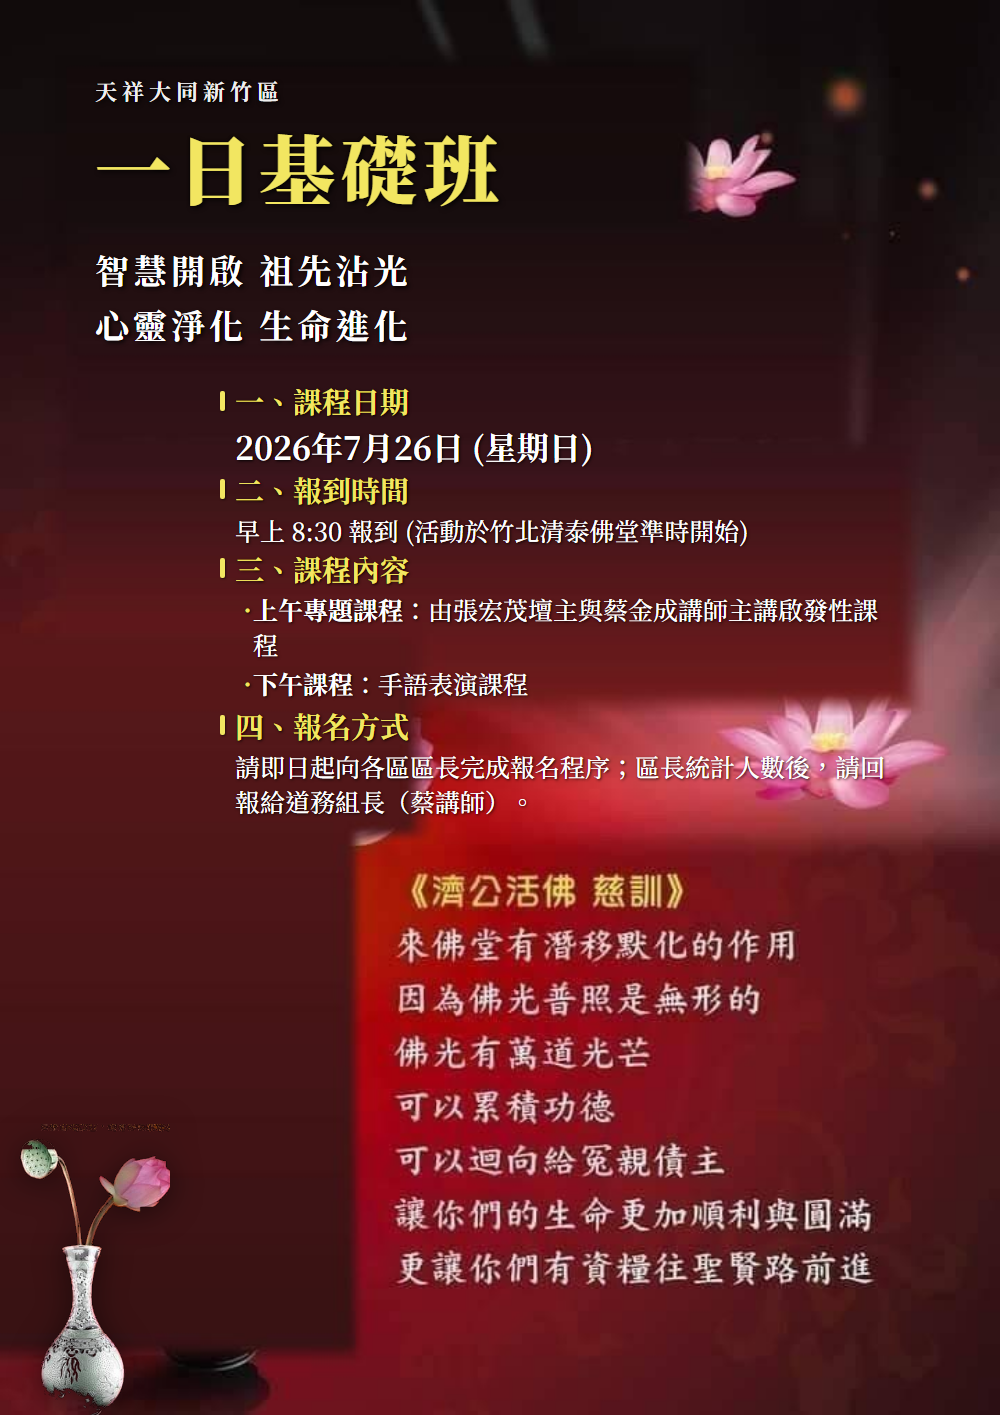
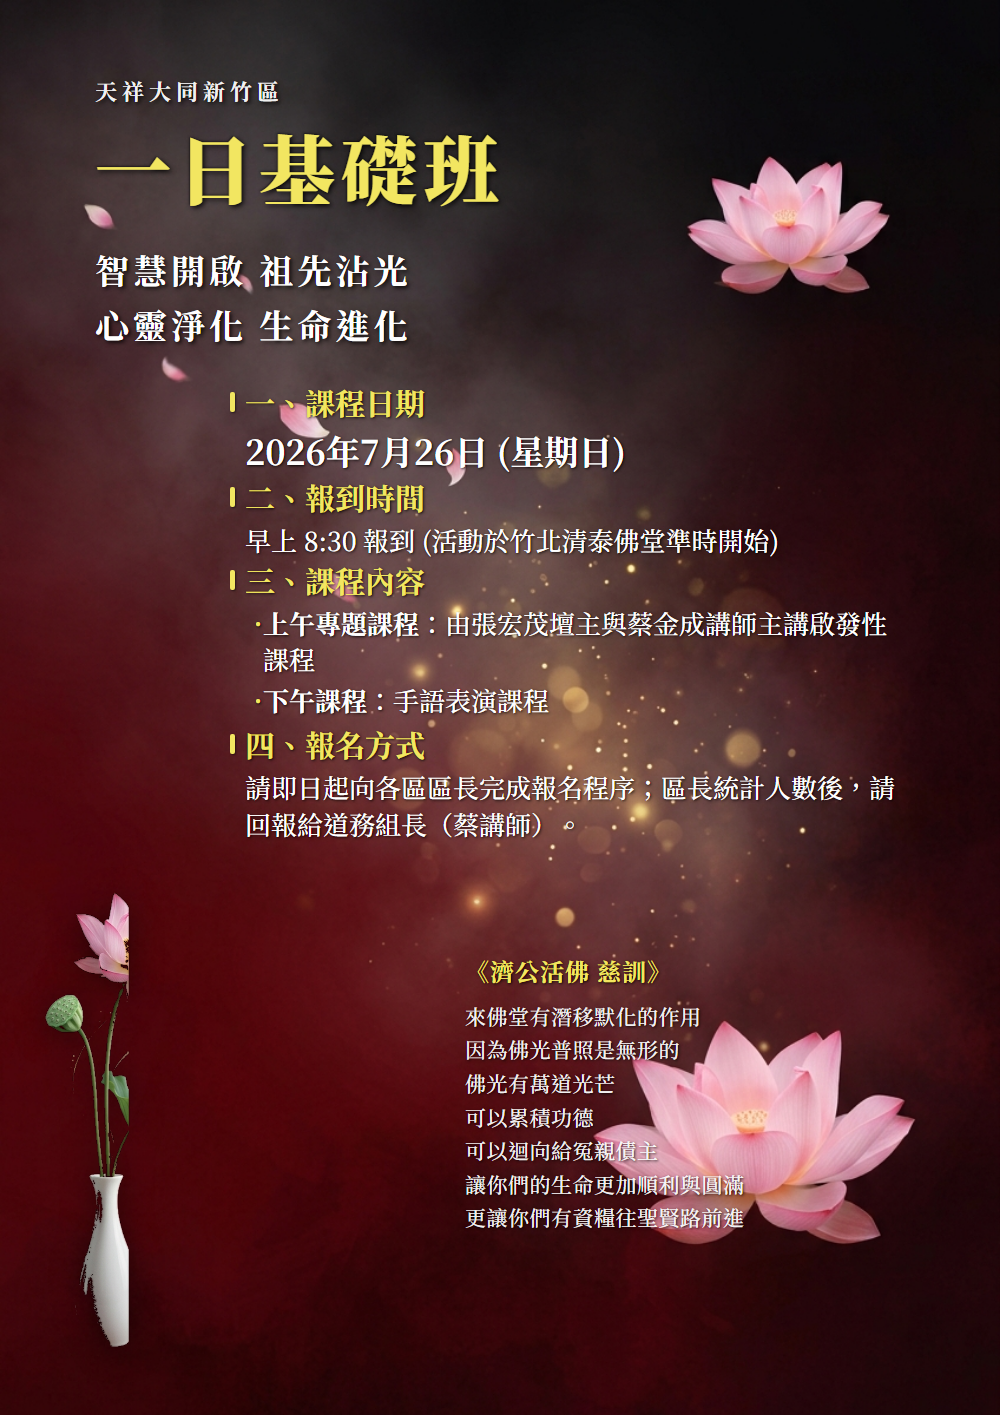
fix(course-poster): rebuild poster_new using clean AI background, shrunk overlay vase, and enlarged course info

diff --git a/public/course poster/index_new.html b/public/course poster/index_new.html
@@ -14,7 +14,7 @@
         
         body {
             font-family: 'Noto Serif TC', 'Microsoft JhengHei', serif;
-            background-color: #120909;
+            background-color: #0b0505;
             display: flex;
             justify-content: center;
             align-items: center;
@@ -24,14 +24,14 @@
         .poster {
             width: 1000px;
             height: 1415px;
-            background: url('S__23208083_patched.jpg') no-repeat center center;
+            background: url('zen_poster_bg_no_vase.jpg') no-repeat center center;
             background-size: cover;
             position: relative;
             overflow: hidden;
             box-shadow: 0 10px 40px rgba(0,0,0,0.6);
         }
         
-        /* 1. Top Title (Shrunk) */
+        /* 1. Top Title */
         .title-container {
             position: absolute;
             top: 75px;
@@ -59,7 +59,7 @@
             text-shadow: 2px 2px 5px rgba(0, 0, 0, 0.9), -1px -1px 2px rgba(0, 0, 0, 0.5);
         }
         
-        /* 2. Wisdom Text (Shrunk, overlayed in HTML) */
+        /* 2. Wisdom Text */
         .wisdom-container {
             position: absolute;
             top: 245px;
@@ -78,16 +78,17 @@
             text-shadow: 2px 2px 4px rgba(0, 0, 0, 0.9);
         }
         
-        /* 3. Middle Course Info (Enlarged and shifted left to use freed space) */
+        /* 3. Middle Course Info (Shifted to the left & Enlarged because vase is shrunk by half) */
         .course-info-container {
             position: absolute;
             top: 380px;
-            left: 220px;
+            left: 230px;
             width: 680px;
             height: 420px;
             display: flex;
             flex-direction: column;
             justify-content: space-between;
+            z-index: 5;
         }
         
         .item {
@@ -97,7 +98,7 @@
         }
         
         .item-title {
-            font-size: 29px;
+            font-size: 30px;
             font-weight: 700;
             color: #f2e661;
             margin-bottom: 3px;
@@ -118,7 +119,7 @@
         }
         
         .item-body {
-            font-size: 25px;
+            font-size: 26px;
             font-weight: 500;
             color: #ffffff;
             padding-left: 15px;
@@ -128,7 +129,7 @@
         
         /* Specific enlargement for date */
         .date-body {
-            font-size: 32px;
+            font-size: 34px;
             font-weight: 700;
             color: #ffffff;
             text-shadow: 1px 1px 3px rgba(0, 0, 0, 0.9);
@@ -153,16 +154,46 @@
             left: 0;
         }
         
-        /* 4. Shrunk Vase Image overlay (placed on bottom-left, shrunk to 170px width) */
+        /* 4. Shrunk Vase Image overlay (placed on bottom-left, shrunk to 210px width) */
         .vase-overlay {
             position: absolute;
             bottom: 0px;
             left: 0px;
-            width: 170px;
+            width: 210px;
             height: auto;
             z-index: 10;
             pointer-events: none;
             filter: drop-shadow(0 4px 15px rgba(0,0,0,0.5));
+        }
+        
+        /* 5. Jigong Grand Master Teachings (Bottom-Right, overlayed in HTML) */
+        .teachings-container {
+            position: absolute;
+            bottom: 180px;
+            right: 95px;
+            width: 440px;
+            text-align: left;
+            display: flex;
+            flex-direction: column;
+            z-index: 5;
+        }
+        
+        .teachings-title {
+            font-size: 24px;
+            font-weight: 700;
+            color: #f2e661;
+            margin-bottom: 12px;
+            text-shadow: 1px 1px 3px rgba(0, 0, 0, 0.9);
+            letter-spacing: 1px;
+        }
+        
+        .teachings-body {
+            font-size: 21px;
+            font-weight: 500;
+            color: rgba(255, 255, 255, 0.95);
+            line-height: 1.6;
+            text-shadow: 1px 1px 3px rgba(0, 0, 0, 0.9);
+            letter-spacing: 0.5px;
         }
     </style>
 </head>
@@ -209,7 +240,21 @@
         </div>
         
         <!-- Shrunk Vase image overlayed at the bottom-left -->
-        <img src="vase_cutout.png" class="vase-overlay" alt="精緻去背花瓶">
+        <img src="vase_cutout_new.png" class="vase-overlay" alt="精緻去背花瓶">
+        
+        <!-- Teachings overlayed on the bottom-right -->
+        <div class="teachings-container">
+            <div class="teachings-title">《濟公活佛 慈訓》</div>
+            <div class="teachings-body">
+                來佛堂有潛移默化的作用<br>
+                因為佛光普照是無形的<br>
+                佛光有萬道光芒<br>
+                可以累積功德<br>
+                可以迴向給冤親債主<br>
+                讓你們的生命更加順利與圓滿<br>
+                更讓你們有資糧往聖賢路前進
+            </div>
+        </div>
     </div>
 </body>
 </html>
